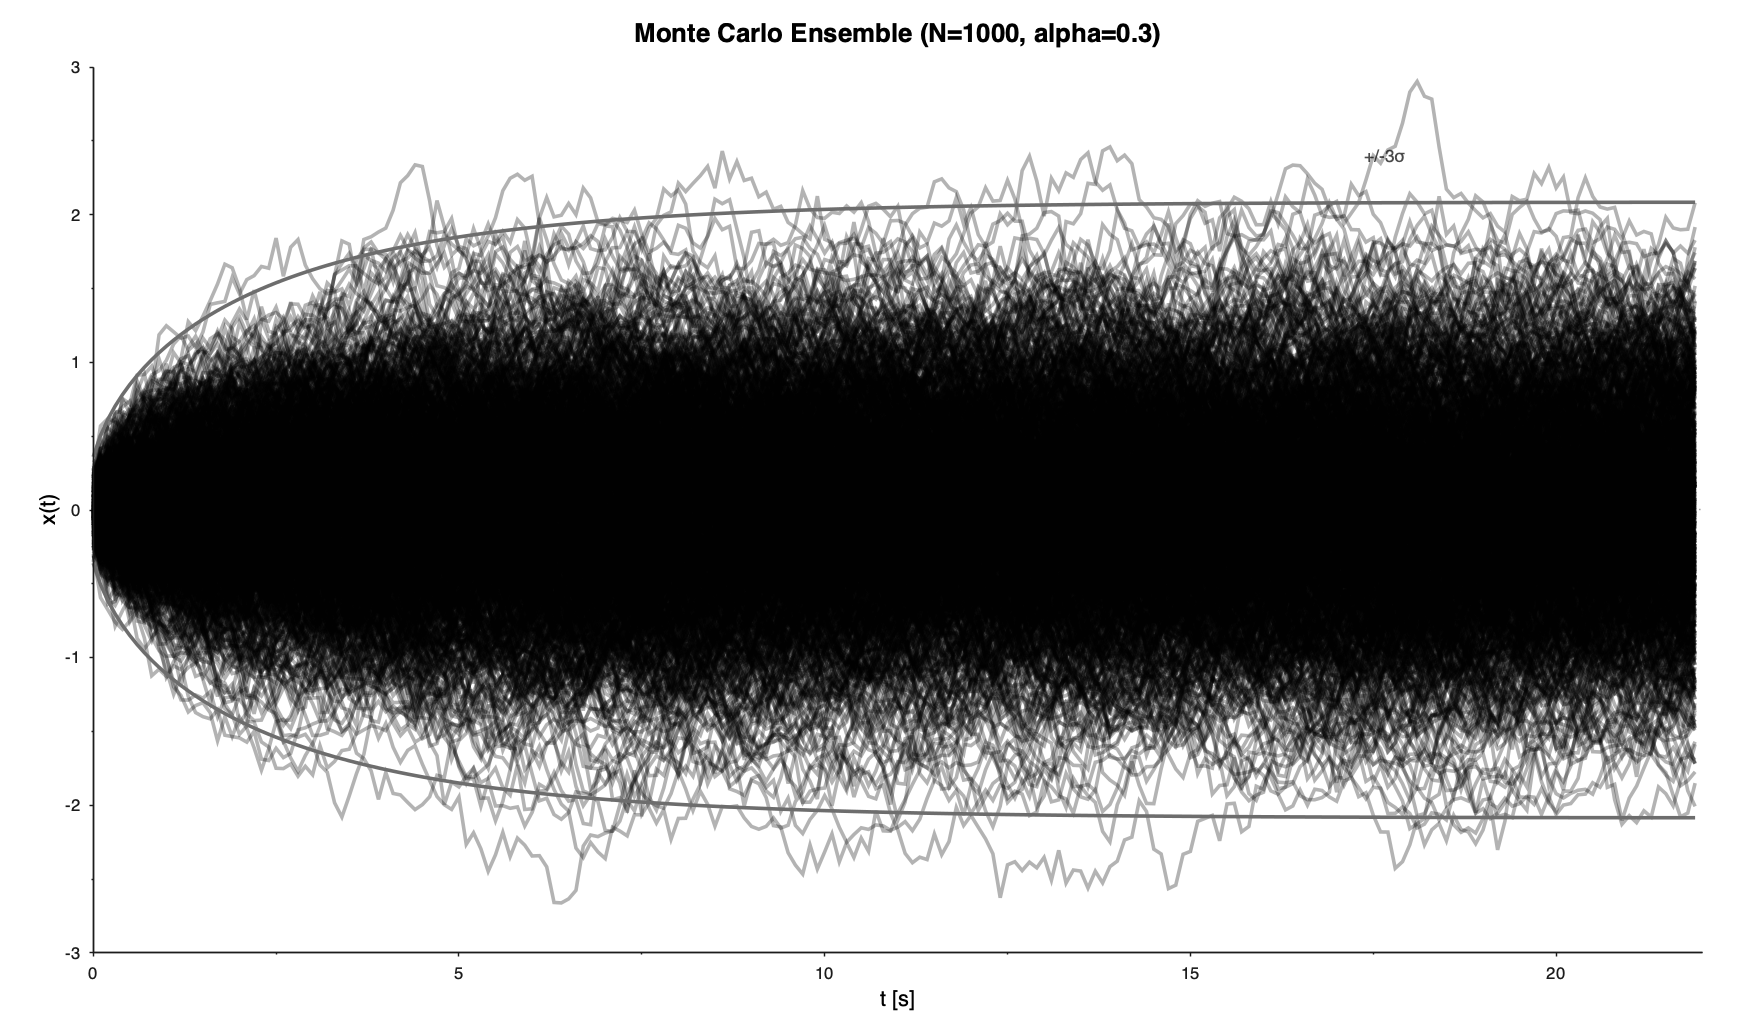
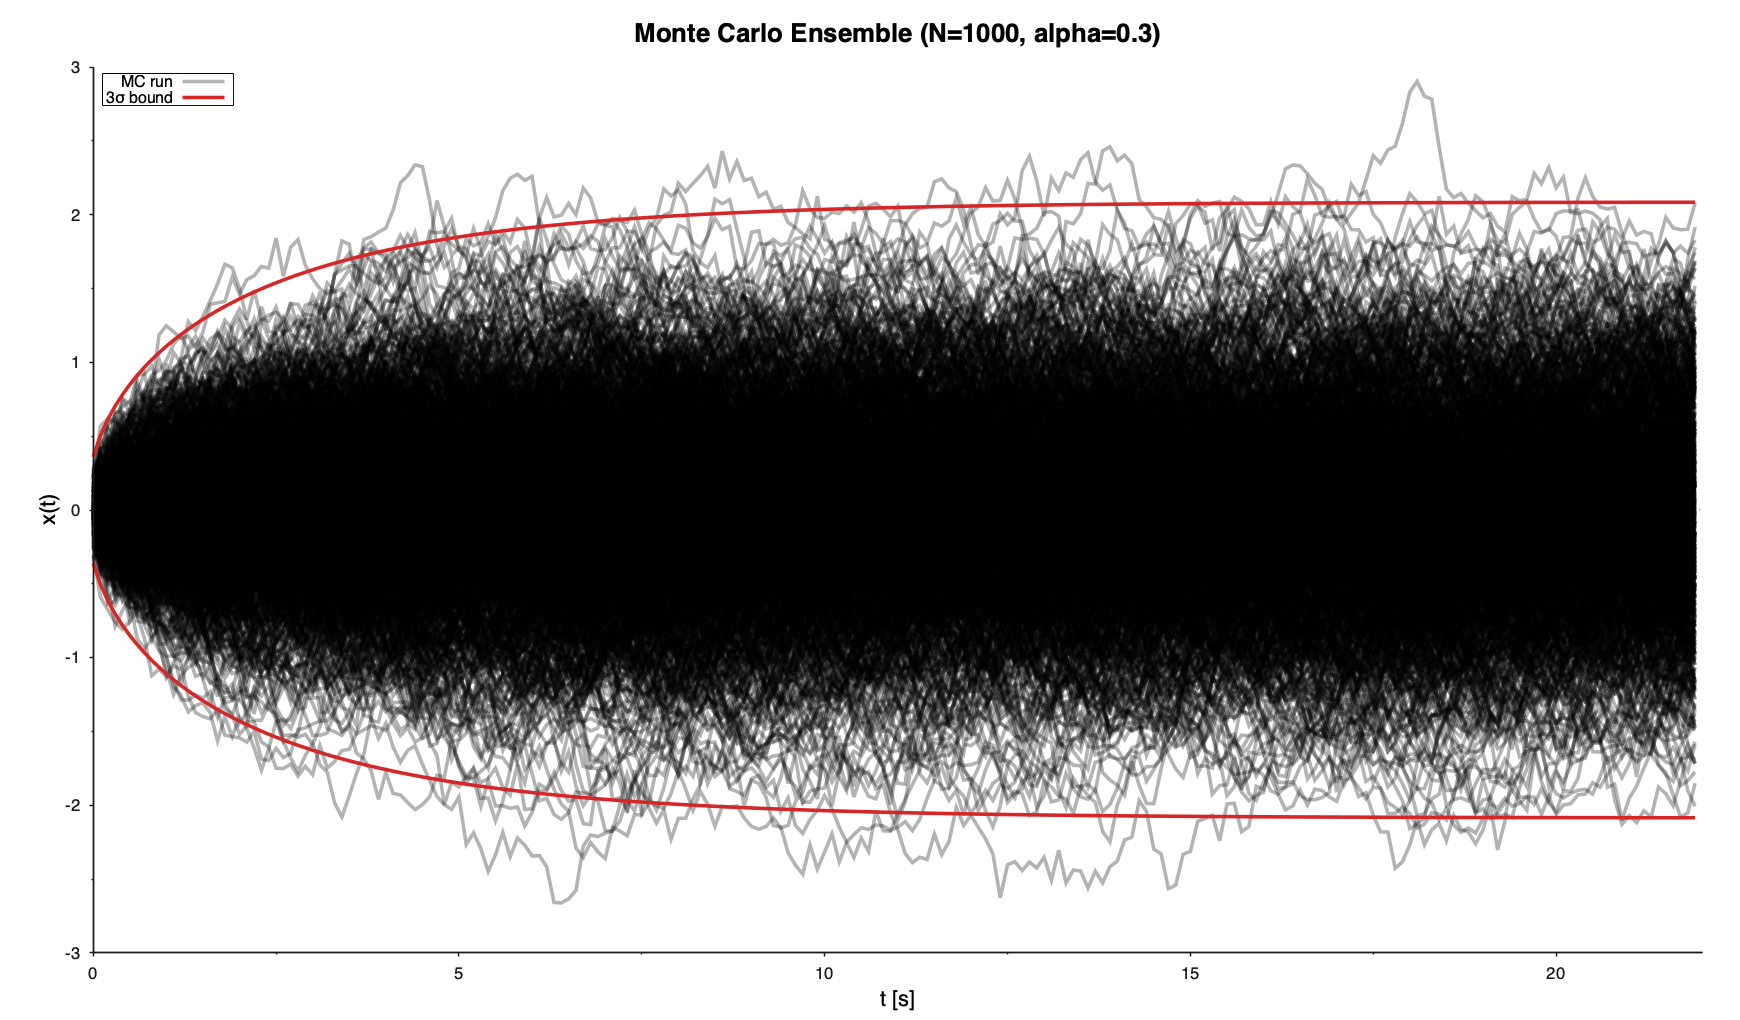
example/docs: add monte carlo legend and 3-sigma bound entry

diff --git a/examples/monte_carlo_alpha_example.cpp b/examples/monte_carlo_alpha_example.cpp
@@ -54,7 +54,12 @@ int main(int argc, char** argv) {
   ax.xlabel = "t [s]";
   ax.ylabel = "x(t)";
   ax.grid = false;
-  ax.legend = false;
+  ax.legend = true;
+  ax.legend_spec.position = LegendPosition::TopLeft;
+  ax.legend_spec.boxed = true;
+  ax.legend_spec.opaque = true;
+  ax.legend_spec.has_font_pt = true;
+  ax.legend_spec.font_pt = 12.0;
   ax.has_xlim = true;
   ax.xmin = 0.0;
   ax.xmax = 22.0;
@@ -102,6 +107,7 @@ int main(int argc, char** argv) {
 
     SeriesSpec s;
     s.type = SeriesType::Line;
+    s.label = (k == 0) ? "MC run" : "";
     s.has_line_width = true;
     s.line_width_pt = line_width;
     s.has_color = true;
@@ -111,22 +117,24 @@ int main(int argc, char** argv) {
     fig.axes(0).add_series(s, t, y);
   }
 
-  fig.axes(0).add_series(SeriesSpec{.label = "",
+  fig.axes(0).add_series(SeriesSpec{.label = "3{/Symbol s} bound",
                                     .has_line_width = true,
                                     .line_width_pt = 2.0,
                                     .has_color = true,
-                                    .color = "#6d6d6d"},
+                                    .color = "#d62728",
+                                    .has_opacity = true,
+                                    .opacity = 1.0},
                          t,
                          sigma_upper);
   fig.axes(0).add_series(SeriesSpec{.label = "",
                                     .has_line_width = true,
                                     .line_width_pt = 2.0,
                                     .has_color = true,
-                                    .color = "#6d6d6d"},
+                                    .color = "#d62728",
+                                    .has_opacity = true,
+                                    .opacity = 1.0},
                          t,
                          sigma_lower);
-  ax.gnuplot_commands.push_back("set label 11 '+/-3{/Symbol s}' at graph 0.79,0.90 font 'Helvetica,13' tc rgb '#4a4a4a'");
-  fig.axes(0).set(ax);
 
   fig.set_backend(make_gnuplot_backend());
   const auto result = fig.save(out_dir / "figures");

diff --git a/src/gnuplot_backend.cpp b/src/gnuplot_backend.cpp
@@ -656,8 +656,12 @@ void emit_plot_body(std::ostream& os,
       const auto& series = axis.series()[s];
       os << quote(data_files[axis_idx][s]) << " " << using_clause(series) << " "
          << axes_clause(series) << " "
-         << with_clause(series, spec.style, spec.preset, spec.palette, s) << " title '"
-         << esc(series.spec.label) << "'";
+         << with_clause(series, spec.style, spec.preset, spec.palette, s) << " ";
+      if (series.spec.label.empty()) {
+        os << "notitle";
+      } else {
+        os << "title '" << esc(series.spec.label) << "'";
+      }
       if (s + 1 < axis.series().size()) {
         os << ", \\\n";
       } else {
